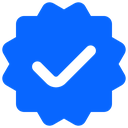
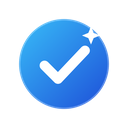
Prepare Chrome Web Store submission (v1.4.1)
- Rename to "Verified Badge for Facebook" with an original icon
- Stop reading the c_user cookie
- Add PRIVACY.md

diff --git a/src/shared/settings.js b/src/shared/settings.js
@@ -1,5 +1,5 @@
 /*!
- * Facebook Verified Badge — shared settings & i18n
+ * Verified Badge for Facebook — shared settings & i18n
  * Loaded by both the content script and the options page; exposes globalThis.FBVB.
  */
 (function (root) {
@@ -54,7 +54,7 @@
       name: 'English',
       messages: {
         badgeTitle: 'Verified account',
-        optionsTitle: 'Facebook Verified Badge',
+        optionsTitle: 'Verified Badge for Facebook',
         optionsSubtitle: 'Cosmetic badge, visible only in your browser.',
         sectionGeneral: 'General',
         enabledLabel: 'Enable badge',
@@ -124,7 +124,7 @@
       name: 'Tiếng Việt',
       messages: {
         badgeTitle: 'Tài khoản đã xác minh',
-        optionsTitle: 'Facebook Verified Badge',
+        optionsTitle: 'Verified Badge for Facebook',
         optionsSubtitle: 'Hiển thị huy hiệu đã xác minh bên cạnh tên Facebook của bạn',
         sectionGeneral: 'Chung',
         enabledLabel: 'Bật huy hiệu',

diff --git a/src/content.js b/src/content.js
@@ -1,5 +1,5 @@
 /*!
- * Facebook Verified Badge — content script
+ * Verified Badge for Facebook — content script
  * https://github.com/binhake/Facebook_Verified_Badge
  *
  * Adds a cosmetic verified badge next to a name on Facebook:
@@ -69,11 +69,6 @@
     return el.getClientRects().length > 0;
   }
 
-  function readCookie(name) {
-    const match = document.cookie.match(new RegExp('(?:^|;\\s*)' + name + '=([^;]+)'));
-    return match ? decodeURIComponent(match[1]) : '';
-  }
-
   function decodeJsonString(raw) {
     try {
       return JSON.parse('"' + raw + '"');
@@ -103,7 +98,7 @@
 
       const idMatch = text.match(VIEWER_ID_RE);
       appState.viewer = {
-        id: idMatch ? idMatch[1] : readCookie('c_user'),
+        id: idMatch ? idMatch[1] : '',
         name: normalizeText(decodeJsonString(nameMatch[1]))
       };
       log('Signed in as "' + appState.viewer.name + '" (' + appState.viewer.id + ')');

diff --git a/src/options/options.html b/src/options/options.html
@@ -3,7 +3,7 @@
 <head>
   <meta charset="utf-8">
   <meta name="viewport" content="width=device-width, initial-scale=1">
-  <title>Facebook Verified Badge</title>
+  <title>Verified Badge for Facebook</title>
   <link rel="stylesheet" href="options.css">
 </head>
 <body>
@@ -11,7 +11,7 @@
     <header class="page-header">
       <img class="page-icon" src="../../icons/icon48.png" width="40" height="40" alt="">
       <div>
-        <h1 data-i18n="optionsTitle">Facebook Verified Badge</h1>
+        <h1 data-i18n="optionsTitle">Verified Badge for Facebook</h1>
         <p class="muted" data-i18n="optionsSubtitle"></p>
       </div>
     </header>

diff --git a/src/options/options.js b/src/options/options.js
@@ -1,5 +1,5 @@
 /*!
- * Facebook Verified Badge — options page (also used as the toolbar popup)
+ * Verified Badge for Facebook — options page (also used as the toolbar popup)
  */
 (function (FBVB) {
   'use strict';

diff --git a/PRIVACY.md b/PRIVACY.md
@@ -1,0 +1,101 @@
+# Privacy Policy — Verified Badge for Facebook
+
+*Last updated: 2026-10-15*
+
+English · [Tiếng Việt](#chính-sách-quyền-riêng-tư)
+
+Verified Badge for Facebook ("the extension") is an open-source browser extension that shows a cosmetic badge next to a name on facebook.com, inside your own browser only.
+
+## Summary
+
+**The extension does not collect, store on any server, sell or share any personal data.** It makes no network requests and contains no analytics, ads or remote code.
+
+## Data the extension reads
+
+| Data | Where it comes from | Why | Stored? | Sent anywhere? |
+|---|---|---|---|---|
+| Your Facebook display name and user ID | The Facebook page currently open in your tab | To find your name on the page and place the badge next to it | No — kept in memory for the open tab only | No |
+| The address (URL) of the current Facebook page | Your browser tab | To decide whether the badge should appear on that page | No | No |
+
+The extension does **not** read cookies, passwords, messages, posts, friends lists, form inputs or browsing history, and it only runs on `facebook.com` pages.
+
+## Data the extension stores
+
+| Data | Storage | Purpose |
+|---|---|---|
+| Your settings (on/off switches, badge sizes, interval, language, URL list) | `chrome.storage.sync` | Remember your preferences. If Chrome Sync is enabled, Google syncs them between your own devices. |
+| Language files you import | `chrome.storage.local` | Show the settings page in your language. Stays on this device. |
+
+None of this contains personal information about you or other people. You can delete it at any time by clicking **Reset to defaults** in the settings or by removing the extension.
+
+## Permissions
+
+- **`storage`** — save the settings described above.
+- **Access to `facebook.com`** — the content script needs to read the page to find your name and insert the badge. It does nothing on pages that are not in your URL list.
+
+## Third parties
+
+The extension does not use any third-party services. It is not affiliated with, endorsed by or sponsored by Meta Platforms, Inc.
+
+## Children
+
+The extension does not knowingly collect any information from anyone, including children.
+
+## Changes
+
+Any change to this policy will be published in this file in the [GitHub repository](https://github.com/binhake/Facebook_Verified_Badge), with an updated date above.
+
+## Contact
+
+Open an issue at <https://github.com/binhake/Facebook_Verified_Badge/issues>.
+
+---
+
+# Chính sách quyền riêng tư
+
+*Cập nhật lần cuối: 15/10/2026*
+
+Verified Badge for Facebook ("extension") là extension trình duyệt mã nguồn mở, hiển thị huy hiệu trang trí cạnh tên trên facebook.com, chỉ trong trình duyệt của chính bạn.
+
+## Tóm tắt
+
+**Extension không thu thập, không lưu lên máy chủ nào, không bán và không chia sẻ dữ liệu cá nhân.** Extension không gửi request mạng, không có analytics, quảng cáo hay code tải từ xa.
+
+## Dữ liệu extension đọc
+
+| Dữ liệu | Lấy từ đâu | Để làm gì | Có lưu không? | Có gửi đi không? |
+|---|---|---|---|---|
+| Tên hiển thị và ID tài khoản Facebook của bạn | Trang Facebook đang mở trong tab | Tìm tên bạn trên trang để đặt huy hiệu bên cạnh | Không — chỉ giữ trong bộ nhớ của tab đang mở | Không |
+| Địa chỉ (URL) trang Facebook hiện tại | Tab trình duyệt | Quyết định có hiện huy hiệu trên trang đó không | Không | Không |
+
+Extension **không** đọc cookie, mật khẩu, tin nhắn, bài viết, danh sách bạn bè, dữ liệu nhập vào form hay lịch sử duyệt web, và chỉ chạy trên các trang `facebook.com`.
+
+## Dữ liệu extension lưu
+
+| Dữ liệu | Nơi lưu | Mục đích |
+|---|---|---|
+| Tuỳ chọn của bạn (công tắc, cỡ huy hiệu, chu kỳ, ngôn ngữ, danh sách URL) | `chrome.storage.sync` | Ghi nhớ tuỳ chọn. Nếu bật Chrome Sync, Google đồng bộ giữa các thiết bị của chính bạn. |
+| File ngôn ngữ bạn import | `chrome.storage.local` | Hiển thị trang tuỳ chỉnh bằng ngôn ngữ của bạn. Chỉ nằm trên thiết bị này. |
+
+Không dữ liệu nào trong đó chứa thông tin cá nhân của bạn hay người khác. Bạn có thể xoá bất cứ lúc nào bằng nút **Khôi phục mặc định** trong phần tuỳ chỉnh hoặc gỡ extension.
+
+## Quyền
+
+- **`storage`** — lưu các tuỳ chọn nêu trên.
+- **Truy cập `facebook.com`** — content script cần đọc trang để tìm tên bạn và chèn huy hiệu. Nó không làm gì trên các trang không có trong danh sách URL.
+
+## Bên thứ ba
+
+Extension không dùng dịch vụ bên thứ ba nào. Extension không liên kết, không được bảo trợ hay tài trợ bởi Meta Platforms, Inc.
+
+## Trẻ em
+
+Extension không chủ động thu thập thông tin của bất kỳ ai, kể cả trẻ em.
+
+## Thay đổi
+
+Mọi thay đổi của chính sách sẽ được cập nhật trong file này tại [repo GitHub](https://github.com/binhake/Facebook_Verified_Badge), kèm ngày cập nhật ở đầu.
+
+## Liên hệ
+
+Tạo issue tại <https://github.com/binhake/Facebook_Verified_Badge/issues>.

diff --git a/README.vi.md b/README.vi.md
@@ -1,8 +1,10 @@
 <div align="center">
 
-<img src="icons/icon128.png" width="96" height="96" alt="Biểu tượng Facebook Verified Badge">
+<img src="icons/icon128.png" width="96" height="96" alt="Biểu tượng Verified Badge for Facebook">
 
-# Facebook Verified Badge
+# Verified Badge for Facebook
+
+<sub>Repository: Facebook_Verified_Badge</sub>
 
 Extension trình duyệt gọn nhẹ, hiển thị **huy hiệu tích xanh trang trí** cạnh tên bạn trên Facebook — ở trang chủ và trang cá nhân.
 
@@ -276,6 +278,7 @@ Facebook_Verified_Badge/
 ├── icons/                   # Icon 16 / 48 / 128 px
 ├── docs/images/             # Hình minh hoạ cho README
 ├── CHANGELOG.md
+├── PRIVACY.md
 ├── LICENSE
 ├── README.md                # Tiếng Anh
 └── README.vi.md             # Tiếng Việt
@@ -286,6 +289,7 @@ Facebook_Verified_Badge/
 - Quyền duy nhất là `storage`, dùng để lưu tuỳ chọn và ngôn ngữ đã import. Content script được nạp trên `*.facebook.com` và không làm gì nếu trang không khớp URL nào trong danh sách.
 - Tên và ID tài khoản được đọc từ trang hiện tại trong bộ nhớ, chỉ dùng để tìm vị trí tên trên màn hình, không lưu và không gửi đi.
 - Không analytics, không tải code từ xa, không có request mạng.
+- Chính sách đầy đủ: [PRIVACY.md](PRIVACY.md).
 
 ## Giới hạn
 

diff --git a/README.md b/README.md
@@ -1,8 +1,10 @@
 <div align="center">
 
-<img src="icons/icon128.png" width="96" height="96" alt="Facebook Verified Badge icon">
+<img src="icons/icon128.png" width="96" height="96" alt="Verified Badge for Facebook icon">
 
-# Facebook Verified Badge
+# Verified Badge for Facebook
+
+<sub>Repository: Facebook_Verified_Badge</sub>
 
 A lightweight browser extension that shows a **cosmetic verified badge** next to your name on Facebook — on the home feed and on profile pages.
 
@@ -276,6 +278,7 @@ Facebook_Verified_Badge/
 ├── icons/                 # 16 / 48 / 128 px extension icons
 ├── docs/images/           # README illustrations
 ├── CHANGELOG.md
+├── PRIVACY.md
 ├── LICENSE
 ├── README.md
 └── README.vi.md
@@ -286,6 +289,7 @@ Facebook_Verified_Badge/
 - The only permission is `storage`, used for your settings and imported languages. The content script is loaded on `*.facebook.com` and does nothing unless the page matches a URL in your list.
 - The signed-in user's name and ID are read from the current page in memory, used only to locate the name on screen, and never stored or transmitted.
 - No analytics, no remote code, no network requests.
+- Full policy: [PRIVACY.md](PRIVACY.md).
 
 ## Limitations
 

diff --git a/CHANGELOG.md b/CHANGELOG.md
@@ -3,6 +3,15 @@
 All notable changes to this project are documented here.
 The format is based on [Keep a Changelog](https://keepachangelog.com/en/1.1.0/), and this project adheres to [Semantic Versioning](https://semver.org/).
 
+## [1.4.1] - 2026-10-15
+
+### Changed
+- Renamed to **Verified Badge for Facebook** and replaced the icon with an original design, ahead of the Chrome Web Store submission.
+- No longer reads the `c_user` cookie; the user ID comes only from the page data.
+
+### Added
+- `PRIVACY.md` (English and Vietnamese), used as the Chrome Web Store privacy policy.
+
 ## [1.4.0] - 2026-10-15
 
 ### Added
